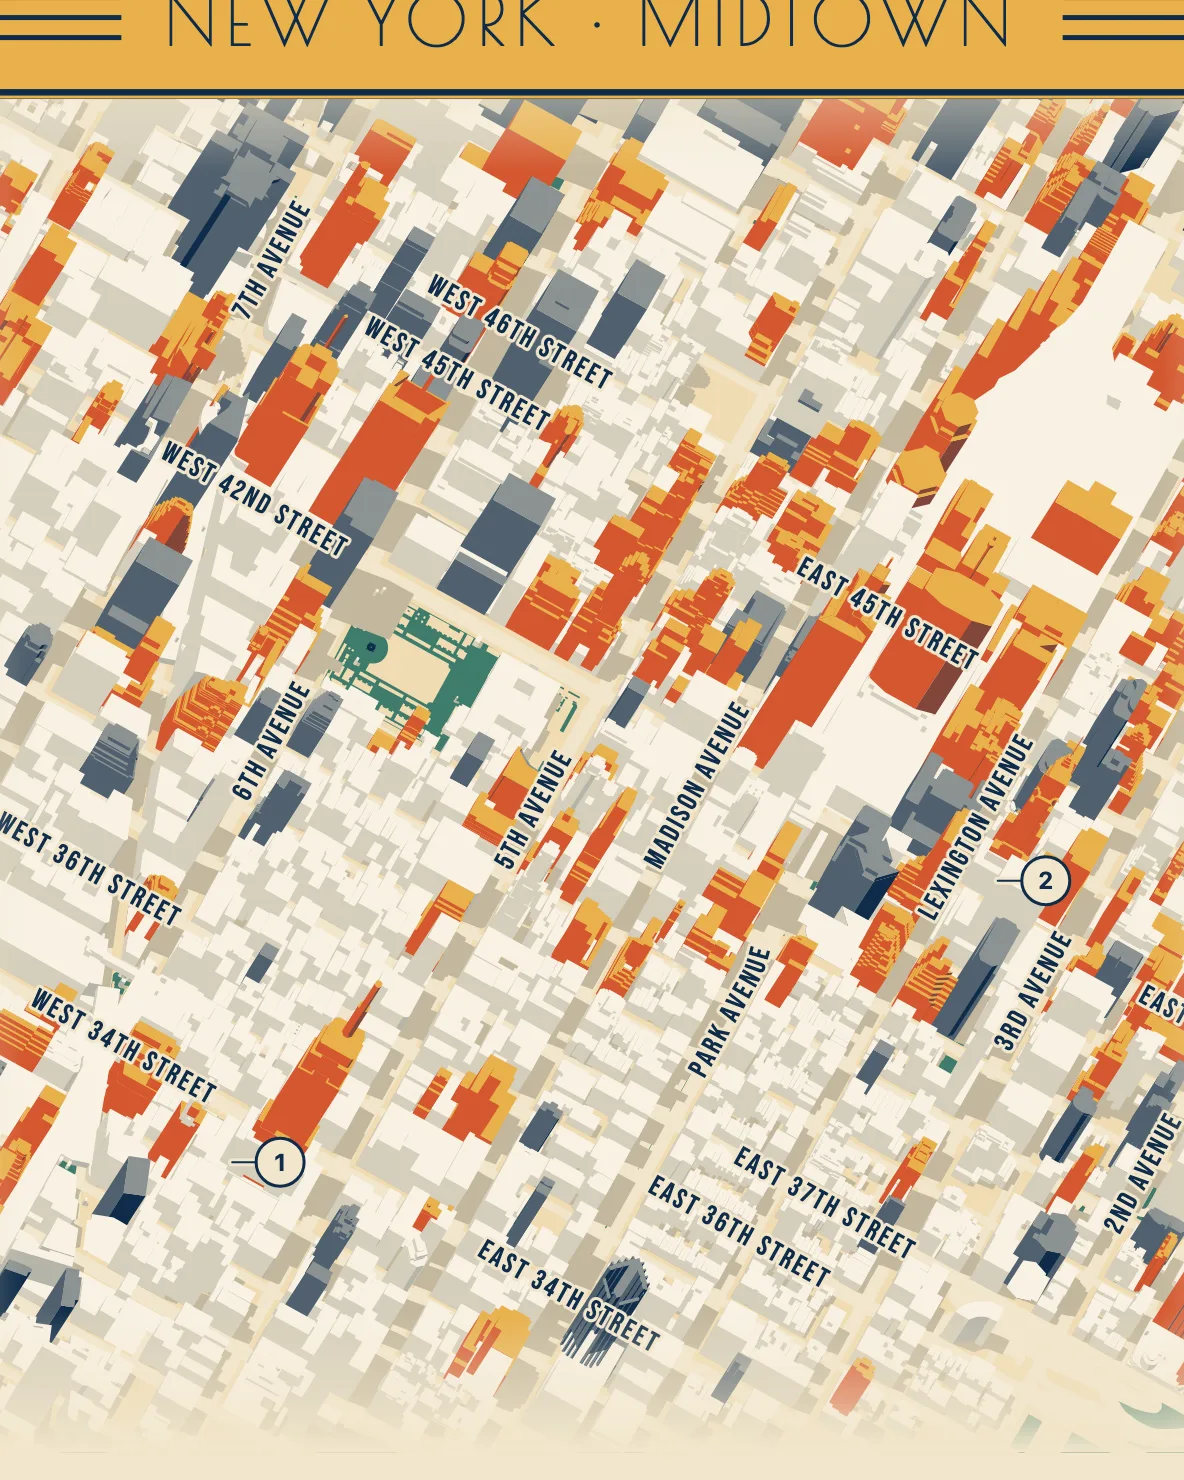
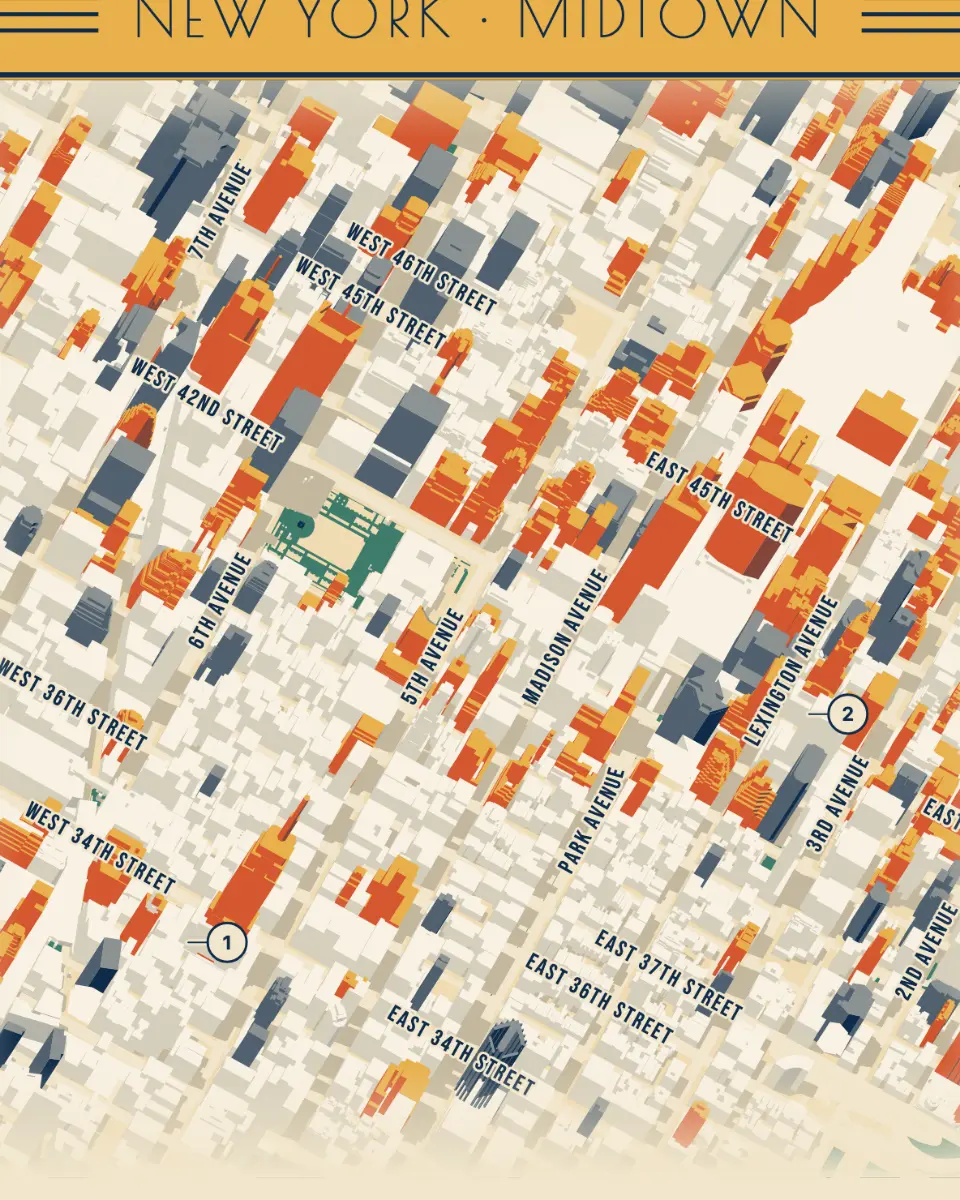
Shrink the gallery vignettes to 960×1200
The gallery's WebP portraits drop from 1184×1480 at quality 0.82 to
960×1200 at 0.75: about 0.8 MB per locale instead of 1.9 MB. They stay
sharp on a 600 px strip at 2× density and turn slightly soft only on the
tallest 820 px strip. Every vignette is committed per map and locale, so
the saving grows with the catalogue. All 25 WebP files are regenerated;
the 1200×630 share pictures are unchanged.

diff --git a/src/vignette.ts b/src/vignette.ts
@@ -8,8 +8,9 @@ import { context2d, makeCanvas } from './toolkit/canvas.ts';
 const RATIO = 4 / 5;
 /** Share of the canvas height kept: leaves out most of the style's frame. */
 const HEIGHT_SHARE = 0.88;
-const MAX_WIDTH = 1200;
-const QUALITY = 0.82;
+/** 960 × 1200: sharp on a gallery strip 600 CSS px high at 2× density (a laptop), slightly soft on the tallest 820 px strip. Every pixel more is committed for each map and locale. */
+const MAX_WIDTH = 960;
+const QUALITY = 0.75;
 /** Open Graph's recommended size. */
 const SHARE = { width: 1200, height: 630 };
 const SHARE_QUALITY = 0.85;
